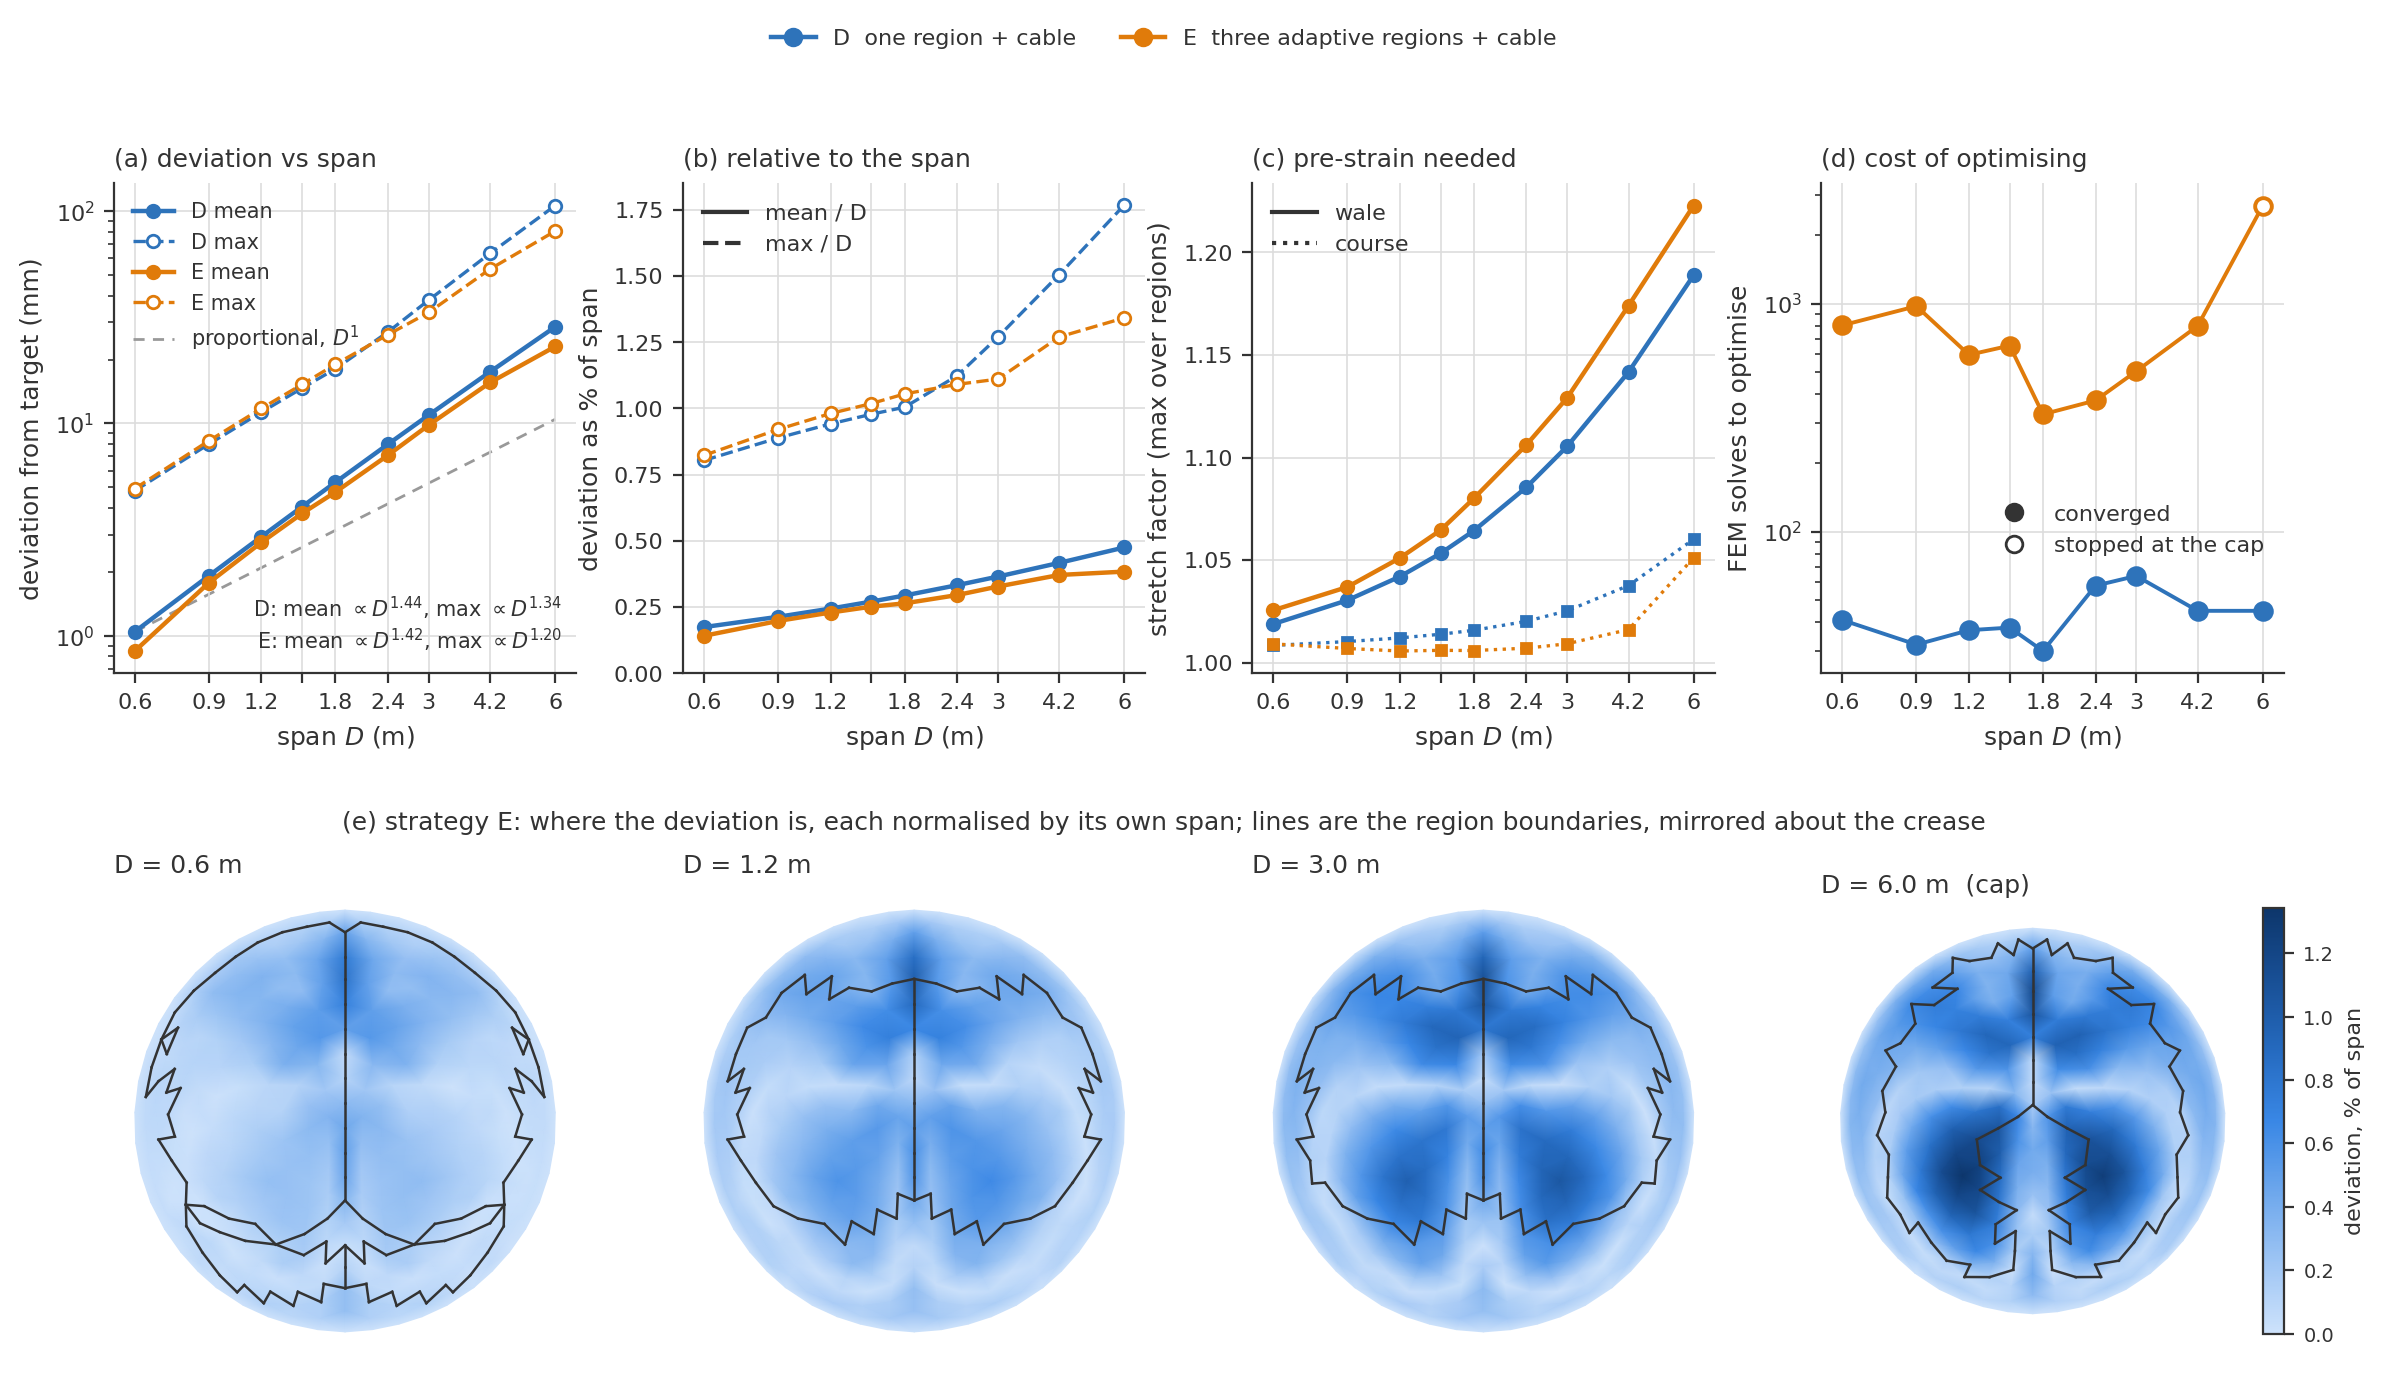
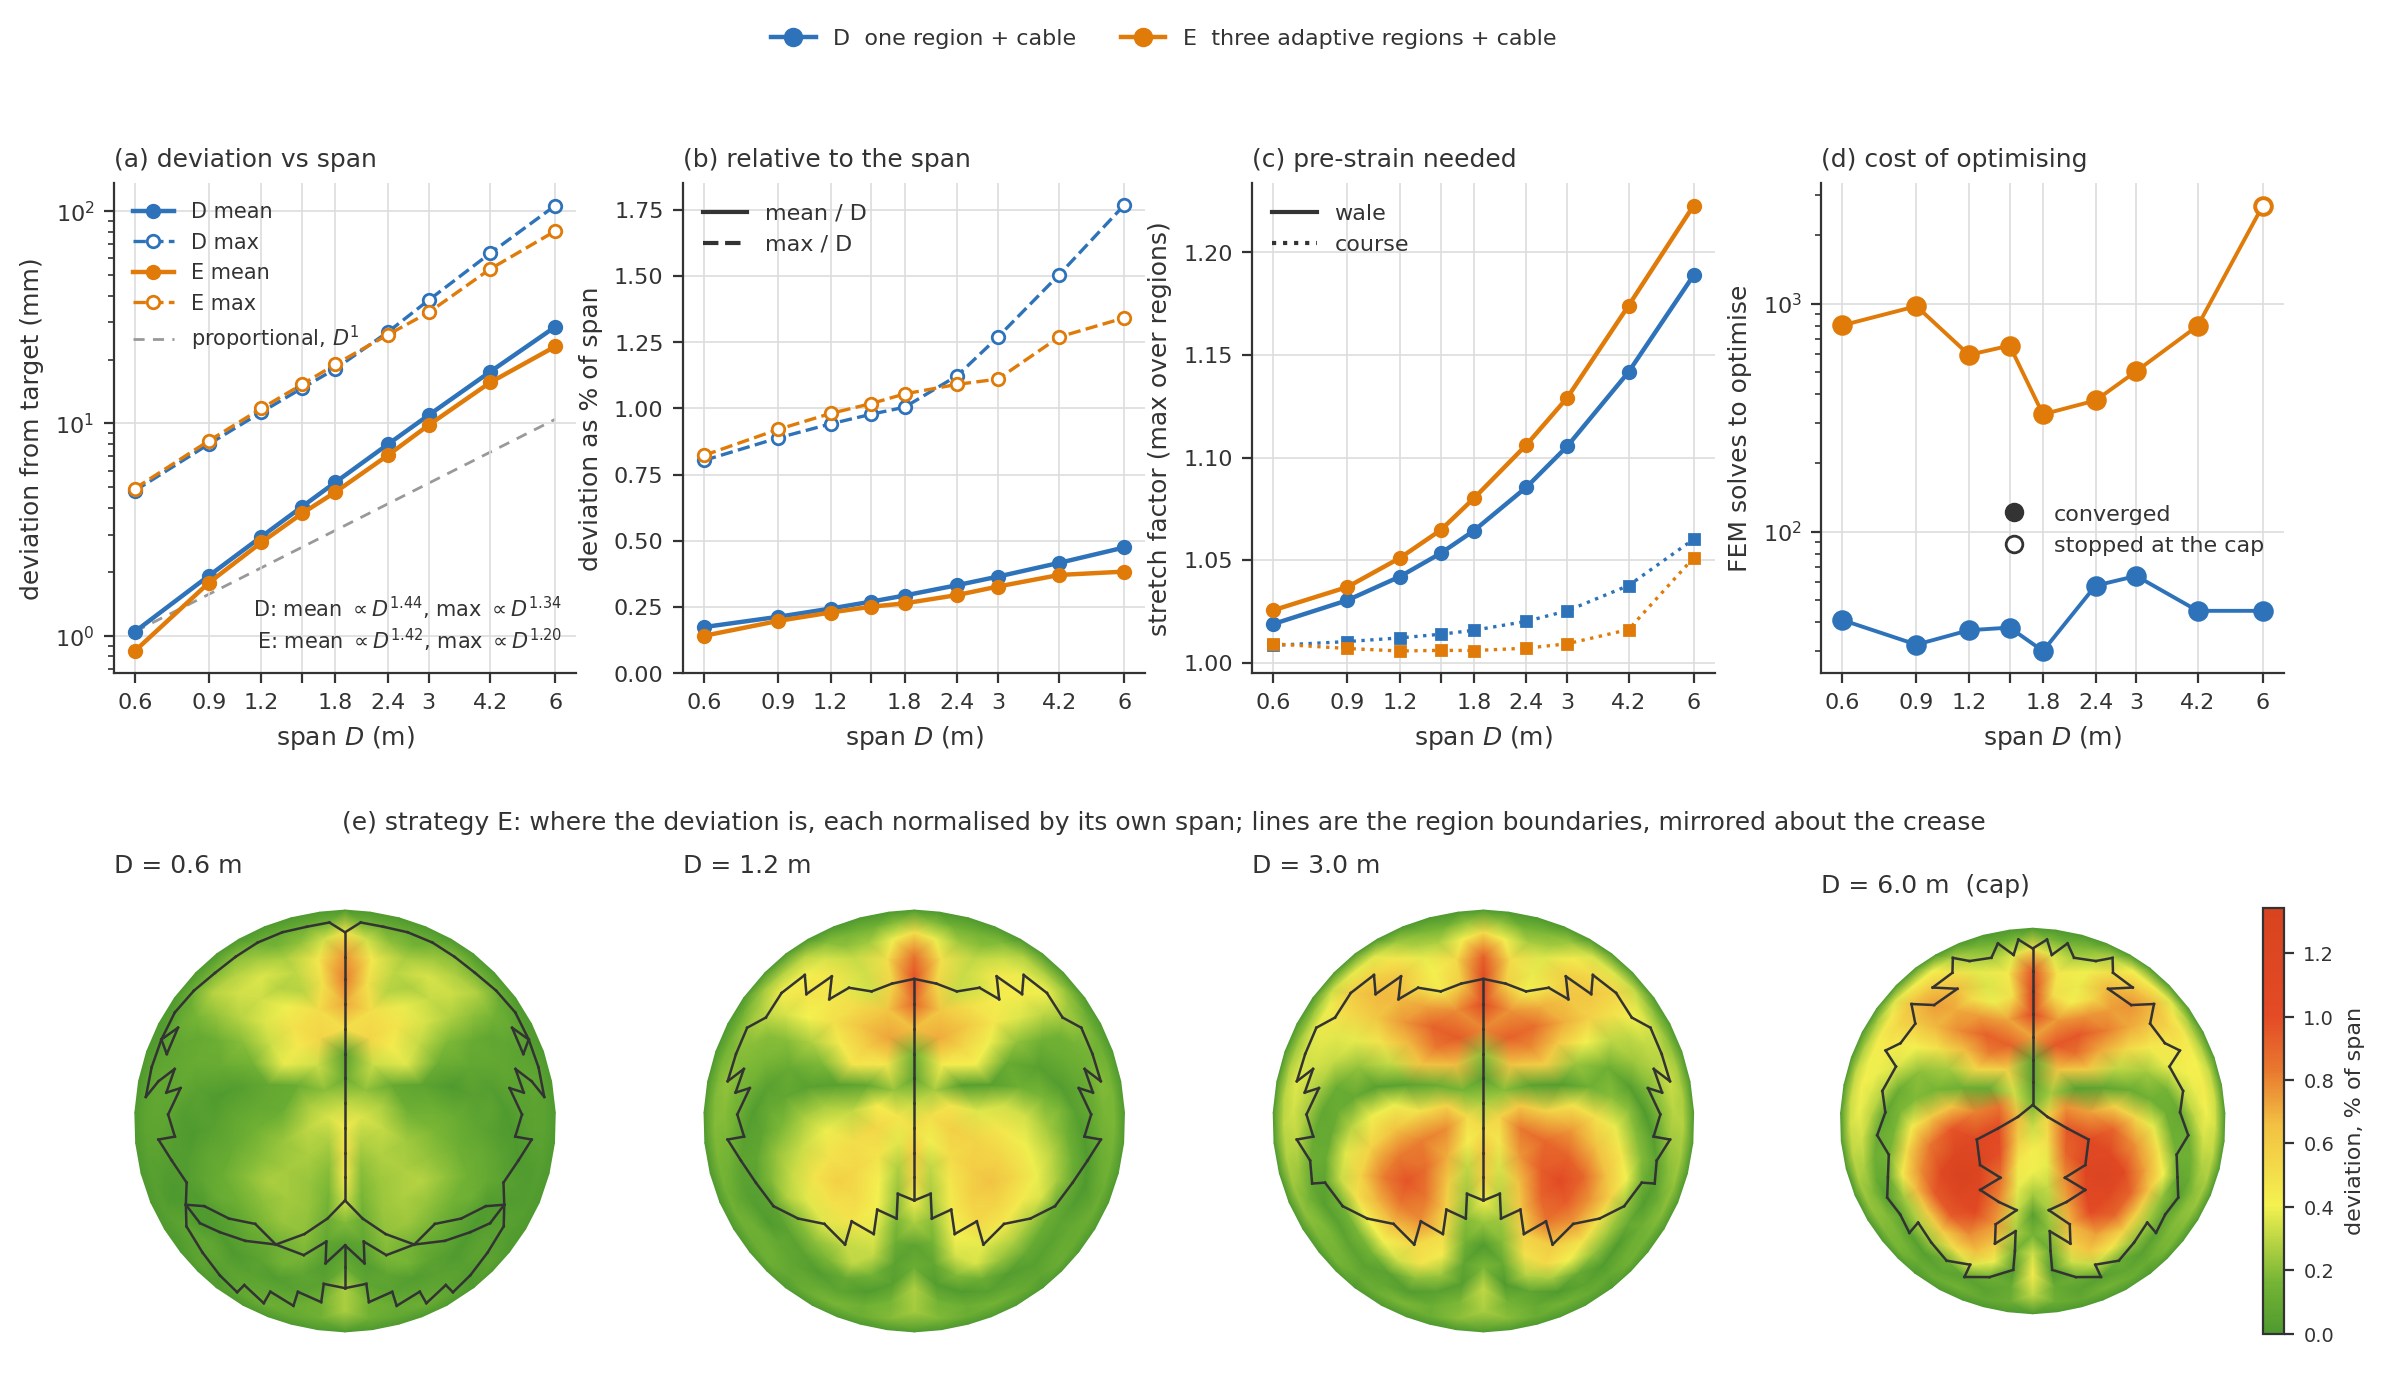
2part_span (e): deviation in the green-yellow-red ramp of the original crease figure
Sampled from the colour bar of the first-version Figure 7.28 (0 / 18 / 60 mm,
yellow at 30 % of the scale); to be checked against creased_dome.jpg.

diff --git a/FDM/figure_2part_span.py b/FDM/figure_2part_span.py
@@ -48,6 +48,13 @@ INK, GRID = "#333333", "#DDDDDD"
 SEQ = LinearSegmentedColormap.from_list("seq_blue", [
     "#cde2fb", "#9ec5f4", "#6da7ec", "#3987e5", "#256abf", "#184f95", "#0d366b"])
 
+# Deviation ramp of the original crease figure (thesis Figure 7.28 in its first
+# version, legend "0 / 18 mm / 60 mm"): green -> yellow at 30 % of the scale ->
+# orange -> red, sampled from its colour bar.
+DEV = LinearSegmentedColormap.from_list("crease_dev", [
+    (0.00, "#4f9a2f"), (0.12, "#75b435"), (0.30, "#f4f150"), (0.49, "#f2c142"),
+    (0.62, "#e8782f"), (0.75, "#e44a26"), (1.00, "#d8441f")])
+
 STRATEGIES = [("D", "D  one region + cable", "#2E73BA"),
               ("E", "E  three adaptive regions + cable", "#E07B0A")]
 MAP_SPANS = [0.6, 1.2, 3.0, 6.0]
@@ -217,7 +224,7 @@ def main():
     for i, r in enumerate(maps):
         ax = fig.add_subplot(gs[1, 4 * i:4 * i + 4])
         tri = Triangulation(r["T"][:, 0] / r["D"], r["T"][:, 1] / r["D"], r["F"])
-        tp = ax.tripcolor(tri, 100 * r["dev"] / r["D"], cmap=SEQ, vmin=0,
+        tp = ax.tripcolor(tri, 100 * r["dev"] / r["D"], cmap=DEV, vmin=0,
                           vmax=vmax, shading="gouraud")
         if r["regions"] is not None:
             reg = symmetric_regions(r["regions"], r["T"], r["F"])
